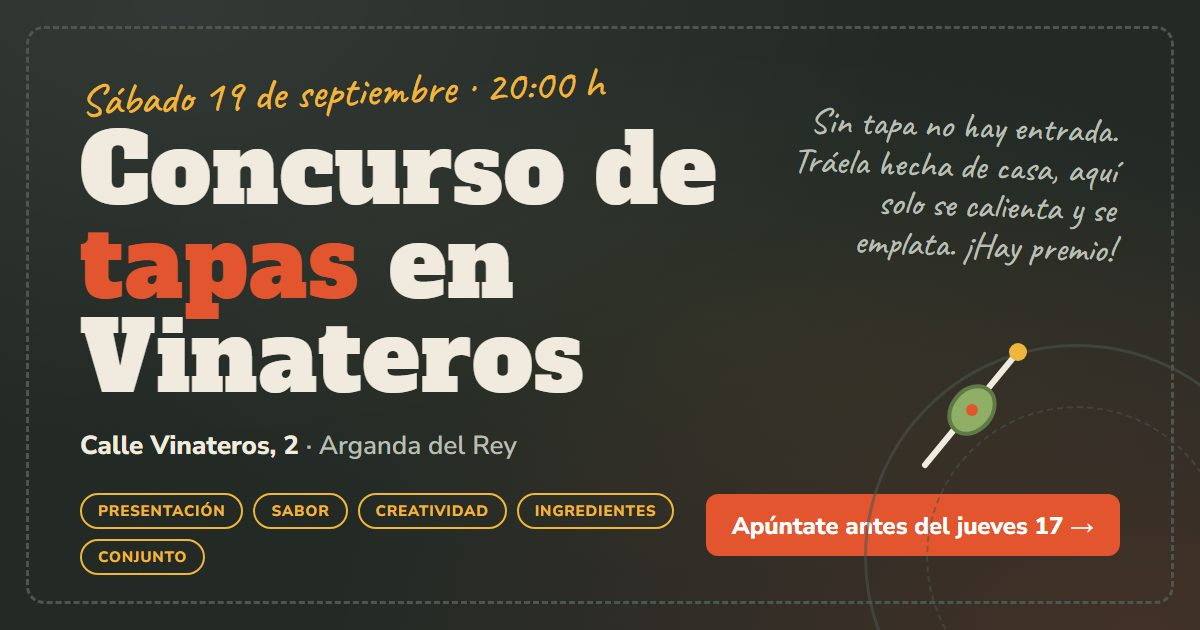
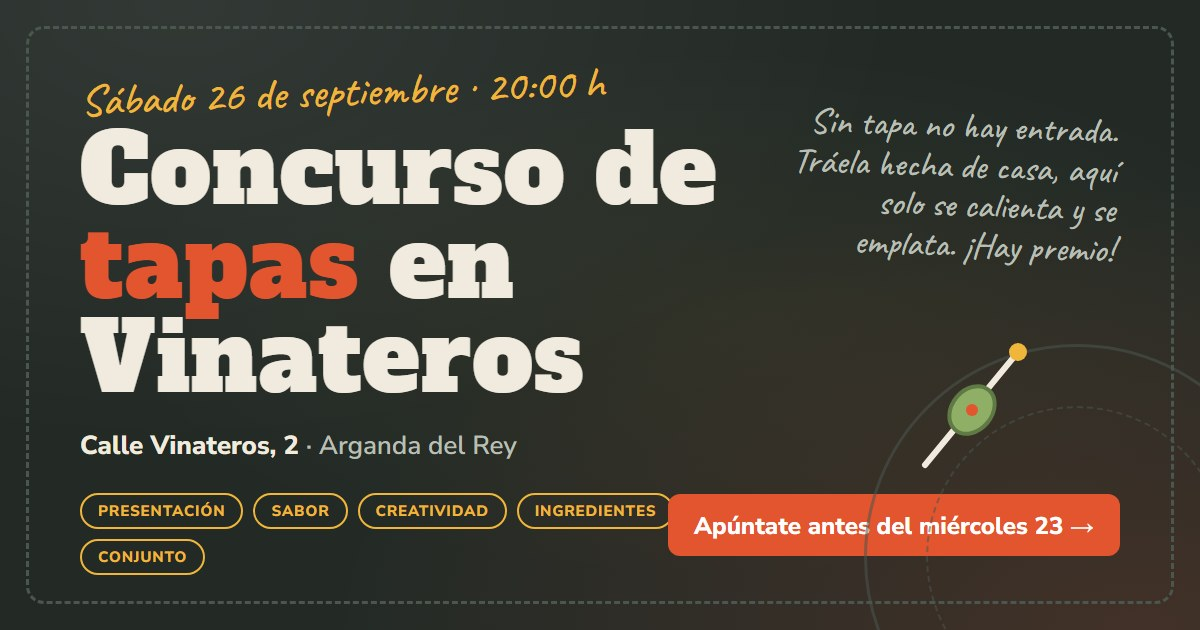
Fecha: sábado 26 de septiembre; inscripciones hasta el miércoles 23 a las 23:59 (web, LEEME y flyers)

Changed region(s): [[0.555, 0.7841, 0.8942, 0.9048], [0.1542, 0.1206, 0.5242, 0.181]]

diff --git a/index.html b/index.html
@@ -4,23 +4,23 @@
 <meta charset="utf-8">
 <meta name="viewport" content="width=device-width, initial-scale=1, viewport-fit=cover">
 <title>Tapas en Vinateros</title>
-<meta name="description" content="Sábado 19 de septiembre a las 20:00 h en Calle Vinateros, 2 (Arganda del Rey). Inscribe tu tapa, vota de forma anónima y descubre la ganadora.">
+<meta name="description" content="Sábado 26 de septiembre a las 20:00 h en Calle Vinateros, 2 (Arganda del Rey). Inscribe tu tapa, vota de forma anónima y descubre la ganadora.">
 <meta property="og:type" content="website">
 <meta property="og:locale" content="es_ES">
 <meta property="og:site_name" content="Tapas en Vinateros">
-<meta property="og:title" content="Concurso de tapas en Vinateros · Sábado 19 de septiembre, 20:00 h">
-<meta property="og:description" content="Calle Vinateros, 2 · Arganda del Rey. Solo entra quien trae tapa: inscríbela antes del jueves 17 y vota el sábado. Gana la mejor media.">
+<meta property="og:title" content="Concurso de tapas en Vinateros · Sábado 26 de septiembre, 20:00 h">
+<meta property="og:description" content="Calle Vinateros, 2 · Arganda del Rey. Solo entra quien trae tapa: inscríbela antes del miércoles 23 y vota el sábado. Gana la mejor media.">
 <meta property="og:url" content="https://victormendezrodriguez10.github.io/concurso-tapas/">
-<meta property="og:image" content="https://victormendezrodriguez10.github.io/concurso-tapas/flyer.jpg">
-<meta property="og:image:secure_url" content="https://victormendezrodriguez10.github.io/concurso-tapas/flyer.jpg">
+<meta property="og:image" content="https://victormendezrodriguez10.github.io/concurso-tapas/flyer.jpg?v=26">
+<meta property="og:image:secure_url" content="https://victormendezrodriguez10.github.io/concurso-tapas/flyer.jpg?v=26">
 <meta property="og:image:type" content="image/jpeg">
 <meta property="og:image:width" content="1200">
 <meta property="og:image:height" content="630">
-<meta property="og:image:alt" content="Concurso de tapas en Vinateros, sábado 19 de septiembre">
+<meta property="og:image:alt" content="Concurso de tapas en Vinateros, sábado 26 de septiembre">
 <meta name="twitter:card" content="summary_large_image">
 <meta name="twitter:title" content="Concurso de tapas en Vinateros">
-<meta name="twitter:description" content="Sábado 19 de septiembre, 20:00 h · Calle Vinateros, 2 · Inscribe tu tapa y vota.">
-<meta name="twitter:image" content="https://victormendezrodriguez10.github.io/concurso-tapas/flyer.jpg">
+<meta name="twitter:description" content="Sábado 26 de septiembre, 20:00 h · Calle Vinateros, 2 · Inscribe tu tapa y vota.">
+<meta name="twitter:image" content="https://victormendezrodriguez10.github.io/concurso-tapas/flyer.jpg?v=26">
 <link rel="preconnect" href="https://fonts.googleapis.com">
 <link rel="preconnect" href="https://fonts.gstatic.com" crossorigin>
 <link rel="stylesheet" href="https://fonts.googleapis.com/css2?family=Alfa+Slab+One&family=Caveat:wght@500;700&family=Nunito+Sans:ital,wght@0,400;0,600;0,800;1,400&display=swap">
@@ -228,7 +228,7 @@
 <body>
 <div class="app">
   <header class="cabecera">
-    <span class="eyebrow" id="cab-fecha">Sábado 19 de septiembre</span>
+    <span class="eyebrow" id="cab-fecha">Sábado 26 de septiembre</span>
     <h1>Concurso de <em>tapas</em> en Vinateros</h1>
     <p class="sub">Calle Vinateros, 2 · Arganda del Rey <strong id="cab-hora"></strong></p>
   </header>
@@ -245,7 +245,7 @@
       <h2>Las normas</h2>
       <ol class="normas">
         <li><span class="n">1</span><div><b>Sin tapa no hay entrada.</b> Solo viene quien trae la suya, hecha de casa: solo puede faltarle calentarla y emplatarla. Aquí hay horno y microondas, no cocina para empezar de cero.</div></li>
-        <li><span class="n">2</span><div><b>Inscribe tu plato aquí antes del jueves 17 a las 23:59</b> con tu nombre y cómo lo presentas. La foto la puedes subir después, cuando lo tengas hecho. Después del jueves se cierra la inscripción para saber cuántas tapas hay que preparar. Las tapas quedan en secreto: nadie las ve hasta que el anfitrión dé comienzo al concurso.</div></li>
+        <li><span class="n">2</span><div><b>Inscribe tu plato aquí antes del miércoles 23 a las 23:59</b> con tu nombre y cómo lo presentas. La foto la puedes subir después, cuando lo tengas hecho. Después del miércoles se cierra la inscripción para saber cuántas tapas hay que preparar. Las tapas quedan en secreto: nadie las ve hasta que el anfitrión dé comienzo al concurso.</div></li>
         <li><span class="n">3</span><div><b>La votación es anónima.</b> Cuando empiece la cata, cada persona puntúa todos los platos menos el suyo. Nadie ve qué nota ha puesto cada cual ni de quién es cada tapa.</div></li>
         <li><span class="n">4</span><div><b>Cuando todo el mundo haya votado,</b> el anfitrión publica los resultados: nombres, medias y la tapa ganadora.</div></li>
         <li><span class="n">5</span><div><b>Hay premio para la tapa ganadora.</b></div></li>
@@ -267,7 +267,7 @@
     <div class="bloque plano">
       <div class="datos">
         <div class="dato"><div class="label">Cuándo</div><div class="v" id="dato-fecha"></div></div>
-        <div class="dato"><div class="label">Inscripciones hasta</div><div class="v">Jueves 17 de septiembre<br><span class="muted" style="font-weight:400">a las 23:59</span></div></div>
+        <div class="dato"><div class="label">Inscripciones hasta</div><div class="v">Miércoles 23 de septiembre<br><span class="muted" style="font-weight:400">a las 23:59</span></div></div>
         <div class="dato"><div class="label">Dónde</div><div class="v"><a href="https://maps.google.com/?q=Calle+Vinateros+2,+Arganda+del+Rey" target="_blank" rel="noopener">Calle Vinateros, 2<br>Arganda del Rey</a></div></div>
       </div>
       <div class="fila" style="margin-top:14px">
@@ -439,11 +439,11 @@
    CONFIGURACIÓN DEL CONCURSO (edita aquí lo que quieras)
    ========================================================== */
 const EVENTO = {
-  fecha: "Sábado 19 de septiembre de 2026",
-  fechaCorta: "Sábado 19 de septiembre",
+  fecha: "Sábado 26 de septiembre de 2026",
+  fechaCorta: "Sábado 26 de septiembre",
   hora: "a las 20:00 h",           // Déjalo vacío si no quieres mostrarlo.
-  cierreInscripcion: "2026-09-17T23:59:59+02:00", // Jueves 17 de septiembre a las 23:59 (hora de España). Después nadie nuevo puede inscribirse.
-  cierreTexto: "jueves 17 a las 23:59",
+  cierreInscripcion: "2026-09-23T23:59:59+02:00", // Miércoles 23 de septiembre a las 23:59 (hora de España). Después nadie nuevo puede inscribirse.
+  cierreTexto: "miércoles 23 a las 23:59",
   codigoAnfitrion: "VINATEROS1998*", // Código para el panel del anfitrión.
 };
 
@@ -823,7 +823,7 @@ function renderResultados(){
   }
   if (abiertos && revelacion === "curso") { $("#res-revelacion").hidden = false; $("#res-abierto").hidden = true; $("#res-bloqueado").hidden = true; return; }
   $("#res-bloqueado").hidden = abiertos; $("#res-abierto").hidden = !abiertos;
-  $("#res-titulo").textContent = cataAbierta() ? "Aún no hay resultados" : "Los resultados se publican el día 19";
+  $("#res-titulo").textContent = cataAbierta() ? "Aún no hay resultados" : "Los resultados se publican el día 26";
   const ps = lista();
   if (!abiertos) {
     const completos = ps.filter(p => votoCompleto(p.id)).length;

diff --git a/flyer.html b/flyer.html
@@ -62,14 +62,14 @@
 <body>
 <div class="lienzo h" id="h">
   <div class="marco"></div>
-  <span class="eyebrow">Sábado 19 de septiembre · 20:00 h</span>
+  <span class="eyebrow">Sábado 26 de septiembre · 20:00 h</span>
   <h1>Concurso de <em>tapas</em> en Vinateros</h1>
   <p class="dir"><b>Calle Vinateros, 2</b> · Arganda del Rey</p>
   <div class="tags">
     <span class="tag on">Presentación</span><span class="tag on">Sabor</span><span class="tag on">Creatividad</span><span class="tag on">Ingredientes</span><span class="tag on">Conjunto</span>
   </div>
   <p class="nota">Sin tapa no hay entrada. Tráela hecha de casa, aquí solo se calienta y se emplata. ¡Hay premio!</p>
-  <span class="cta">Apúntate antes del jueves 17 →</span>
+  <span class="cta">Apúntate antes del miércoles 23 →</span>
   <div class="plato"></div>
   <svg class="oliva" viewBox="0 0 150 150" fill="none" stroke-linecap="round">
     <line x1="25" y1="135" x2="118" y2="22" stroke="#f1ebdf" stroke-width="6"/>
@@ -81,10 +81,10 @@
 
 <div class="lienzo v" id="v">
   <div class="marco"></div>
-  <span class="eyebrow">Sábado 19 de septiembre · 20:00 h</span>
+  <span class="eyebrow">Sábado 26 de septiembre · 20:00 h</span>
   <h1>Concurso de <em>tapas</em> en Vinateros</h1>
   <p class="dir"><b>Calle Vinateros, 2</b> · Arganda del Rey</p>
-  <p class="nota">Sin tapa no hay entrada. Tráela hecha de casa: aquí solo se calienta y se emplata. Votación anónima y premio para la mejor media. Inscripciones hasta el jueves 17 a las 23:59.</p>
+  <p class="nota">Sin tapa no hay entrada. Tráela hecha de casa: aquí solo se calienta y se emplata. Votación anónima y premio para la mejor media. Inscripciones hasta el miércoles 23 a las 23:59.</p>
   <div class="tags">
     <span class="tag on">Presentación</span><span class="tag on">Sabor</span><span class="tag on">Creatividad</span><span class="tag on">Ingredientes</span><span class="tag on">Conjunto</span>
   </div>

diff --git a/LEEME.md b/LEEME.md
@@ -1,6 +1,6 @@
 # Concurso de tapas en Vinateros
 
-Web para el concurso del sábado 19 de septiembre de 2026 en Calle Vinateros, 2 (Arganda del Rey).
+Web para el concurso del sábado 26 de septiembre de 2026 en Calle Vinateros, 2 (Arganda del Rey).
 
 Todo está en `index.html`. Funciona de dos maneras:
 
@@ -76,10 +76,10 @@ con un mensajito.
 El concurso pasa por tres fases. Se cambian desde el **panel del anfitrión** (pestaña Resultados,
 abajo del todo, con tu código) y el cambio llega al momento a todos los móviles.
 
-1. **Inscripción** (desde ya hasta el jueves 17 a las 23:59; después la web cierra sola la inscripción). Cada persona abre el enlace, entra en **Tapas** y se
+1. **Inscripción** (desde ya hasta el miércoles 23 a las 23:59; después la web cierra sola la inscripción). Cada persona abre el enlace, entra en **Tapas** y se
    inscribe con nombre, nombre del plato, presentación, foto y un PIN de 4 cifras. Las tapas de los
    demás no se ven: solo cuántas hay. Cada uno puede editar la suya hasta que empiece el concurso.
-2. **Cata**. El día 19 pulsas **Empezar el concurso**: se cierran las inscripciones, se revelan las
+2. **Cata**. El día 26 pulsas **Empezar el concurso**: se cierran las inscripciones, se revelan las
    tapas (sin decir de quién es cada una) y se abre la ficha de **Votar**. Cada persona puntúa cada
    tapa menos la suya. En Resultados solo se ve quién ha votado ya y a quién le falta.
 3. **Resultados**. Cuando todos han votado pulsas **Publicar resultados** y todo el mundo ve la tapa
